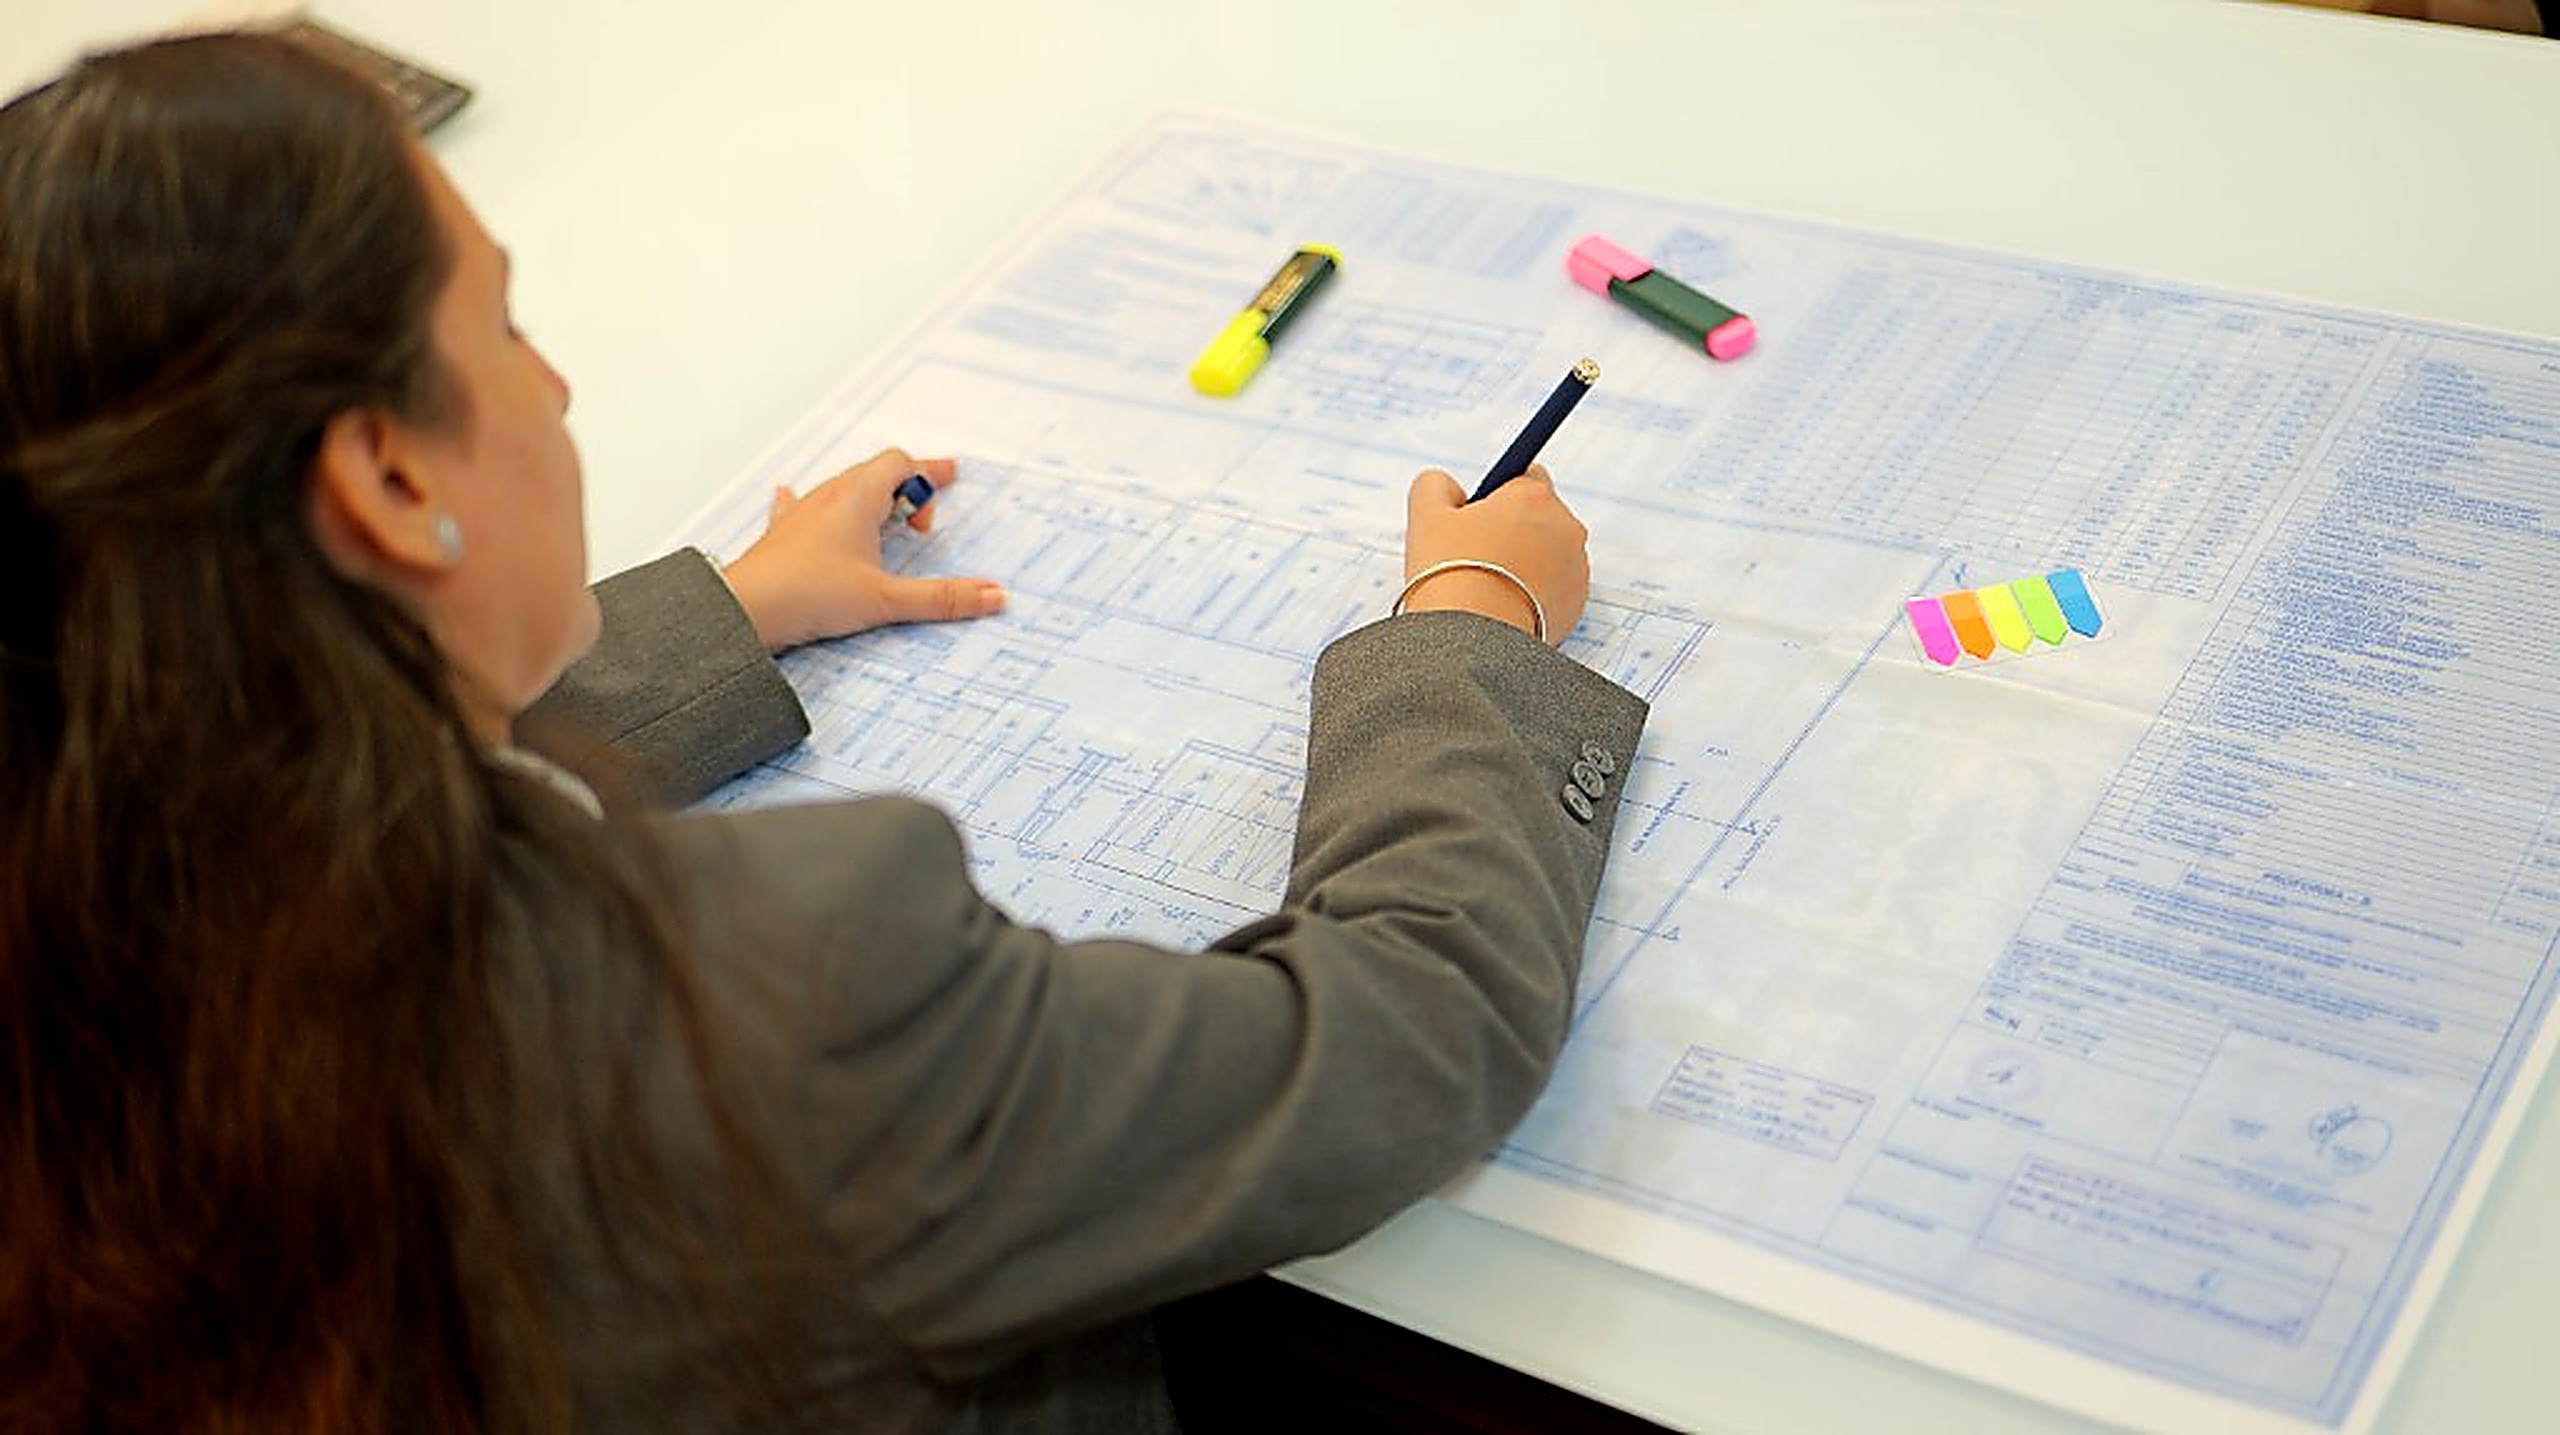
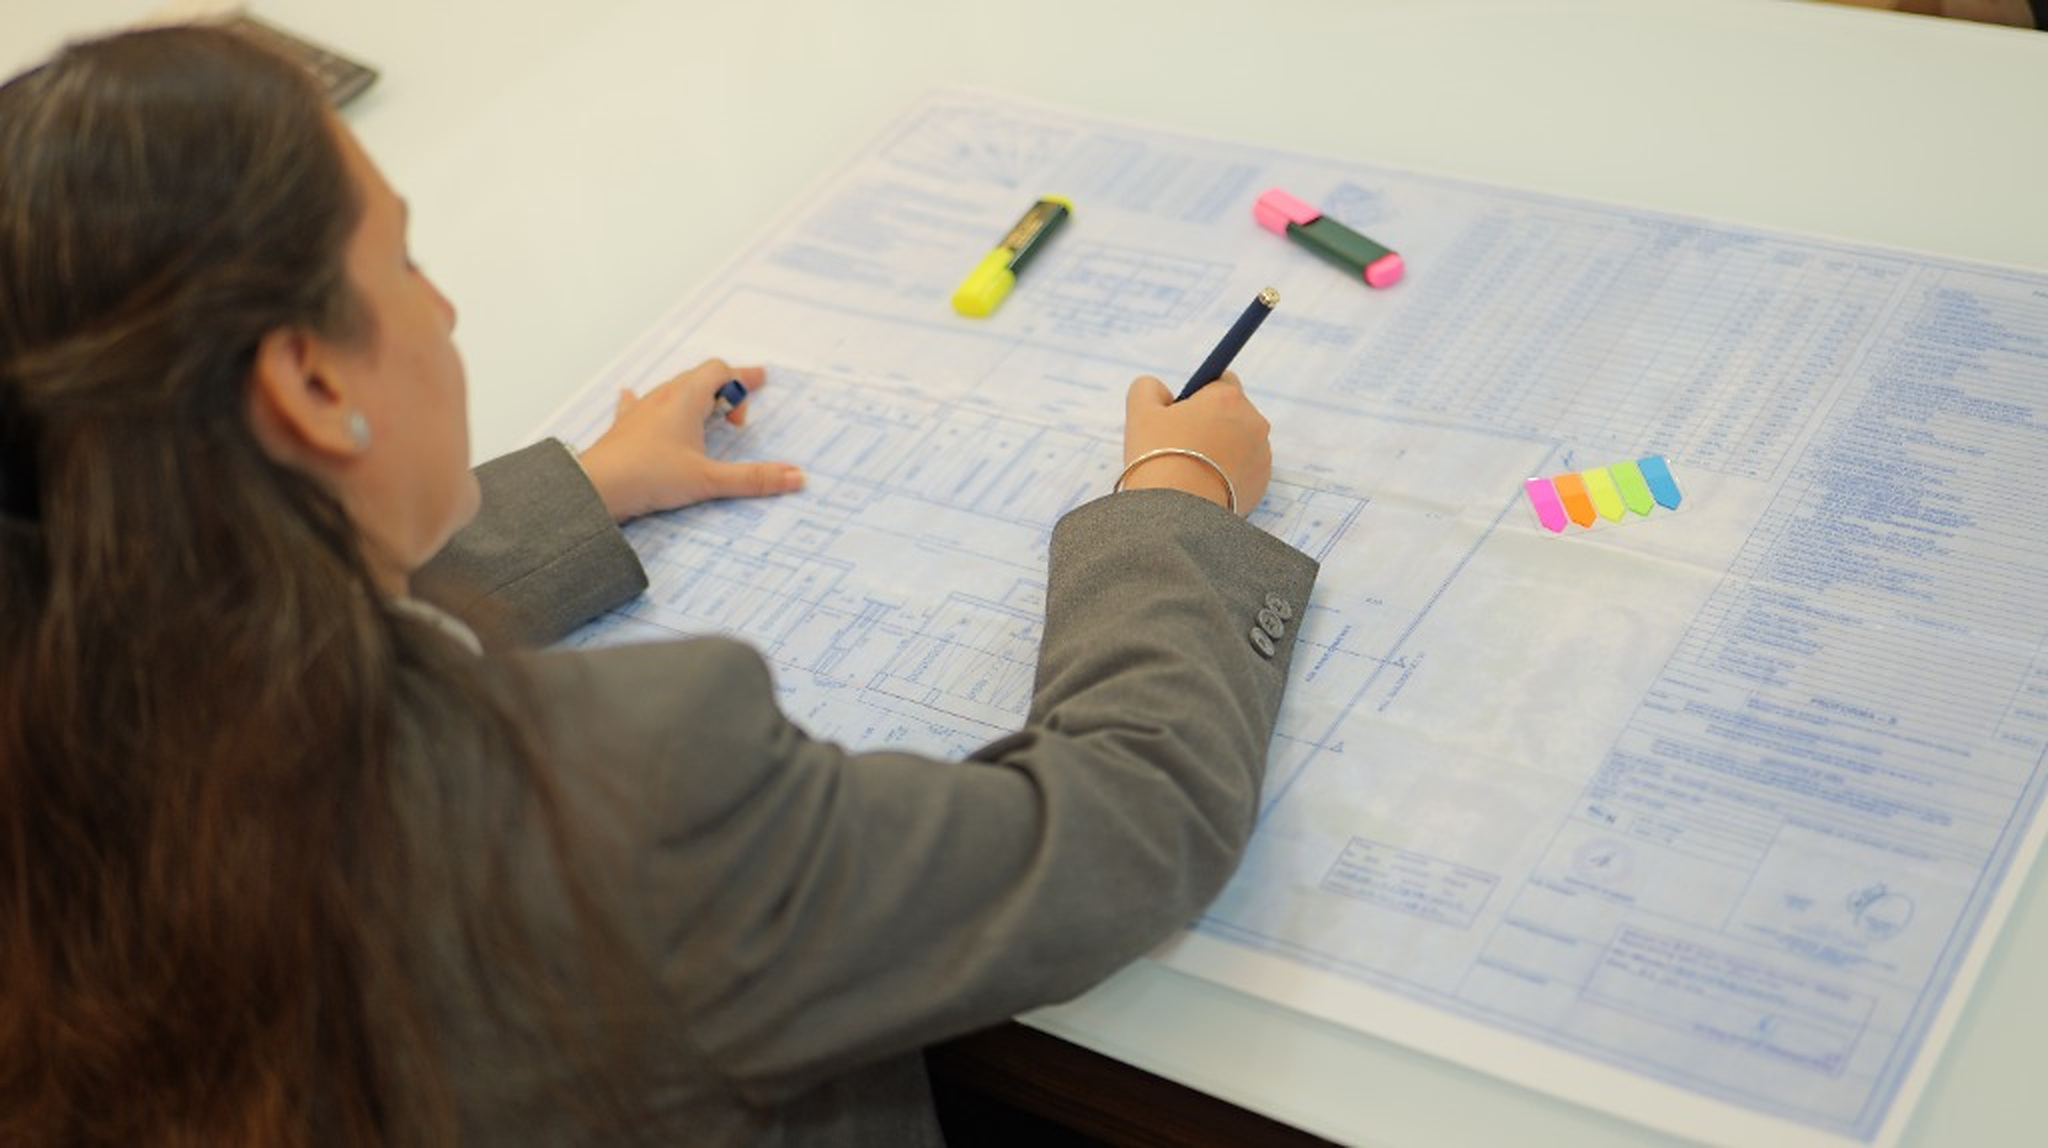
fix: resolve hero image pixelation with deblocked Lanczos upscale and equalize hero section height across all pages

diff --git a/assets/styles.css b/assets/styles.css
@@ -740,10 +740,18 @@ h1, h2, h3, h4, h5, h6 {
    INNER PAGE — PAGE HEADER BANNER (Crystal-Clear High Visibility Imagery)
    ========================================================================== */
 .page-hero {
-  min-height: 64vh; min-height: max(64vh, 520px); display: flex; align-items: center; justify-content: center; text-align: center;
-  background: linear-gradient(180deg, rgba(5, 20, 38, 0.10) 0%, rgba(5, 20, 38, 0.22) 50%, rgba(5, 20, 38, 0.40) 100%), var(--page-hero-img) no-repeat center center / cover;
-  padding: 175px 32px 105px;
+  min-height: 520px;
+  display: flex;
+  align-items: center;
+  justify-content: center;
+  text-align: center;
+  background: linear-gradient(180deg, rgba(5, 20, 38, 0.40) 0%, rgba(5, 20, 38, 0.28) 45%, rgba(5, 20, 38, 0.58) 100%), var(--page-hero-img) no-repeat center center / cover;
+  padding: 150px 32px 80px;
   position: relative;
+  box-sizing: border-box;
+}
+.page-hero > .wrap {
+  width: 100%;
 }
 .page-hero .eyebrow { font-family: var(--font-heading); color: var(--color-gold); text-transform: uppercase; letter-spacing: 3px; font-size: .88rem; font-weight: 700; margin-bottom: 16px; text-shadow: 0 2px 8px rgba(0,0,0,0.9); }
 .page-hero h1 { font-family: var(--font-heading); font-weight: 500; font-size: clamp(2.4rem,4.5vw + 1rem,4rem); color: #fff; line-height: 1.15; max-width: 960px; margin: 0 auto; text-shadow: 0 3px 18px rgba(0,0,0,0.85), 0 1px 4px rgba(0,0,0,0.95); }
@@ -1058,7 +1066,7 @@ h1, h2, h3, h4, h5, h6 {
 
 @media (max-width: 768px) {
   .content-section { padding: 56px 0; }
-  .page-hero { min-height: 48vh; min-height: max(48vh, 380px); padding: 135px 20px 65px; }
+  .page-hero { min-height: 420px; padding: 125px 20px 50px; }
 }
 
 
@@ -2494,10 +2502,18 @@ body.nav-locked {
     display: none !important;
   }
 
-  /* Page Hero Banners (Inner Pages) */
+  /* Page Hero Banners (Inner Pages) - Unified 420px height matching About page */
   .page-hero {
-    min-height: auto;
-    padding: 130px 20px 55px;
+    min-height: 420px;
+    display: flex;
+    flex-direction: column;
+    align-items: center;
+    justify-content: center;
+    padding: 125px 20px 50px;
+    box-sizing: border-box;
+  }
+  .page-hero > .wrap {
+    width: 100%;
   }
   .page-hero .eyebrow {
     font-size: 0.78rem;

diff --git a/architectural-design.html b/architectural-design.html
@@ -12,7 +12,7 @@
 <style>
   :root{ --page-hero-img: url('assets/architectural-design-hero.jpg'); }
   .page-hero {
-    background: linear-gradient(180deg, rgba(5, 20, 38, 0.10) 0%, rgba(5, 20, 38, 0.22) 50%, rgba(5, 20, 38, 0.40) 100%), url('assets/architectural-design-hero.jpg') no-repeat center center / cover !important;
+    background: linear-gradient(180deg, rgba(5, 20, 38, 0.40) 0%, rgba(5, 20, 38, 0.28) 45%, rgba(5, 20, 38, 0.58) 100%), url('assets/architectural-design-hero.jpg') no-repeat center center / cover !important;
   }
 </style>
 </head>

diff --git a/interior-design.html b/interior-design.html
@@ -12,7 +12,7 @@
 <style>
   :root{ --page-hero-img: url('assets/expertise-interior.png'); }
   .page-hero {
-    background: linear-gradient(180deg, rgba(5, 20, 38, 0.10) 0%, rgba(5, 20, 38, 0.22) 50%, rgba(5, 20, 38, 0.40) 100%), url('assets/expertise-interior.png') no-repeat center center / cover !important;
+    background: linear-gradient(180deg, rgba(5, 20, 38, 0.40) 0%, rgba(5, 20, 38, 0.28) 45%, rgba(5, 20, 38, 0.58) 100%), url('assets/expertise-interior.png') no-repeat center center / cover !important;
   }
 </style>
 </head>

diff --git a/liaison.html b/liaison.html
@@ -12,7 +12,7 @@
 <style>
   :root{ --page-hero-img: url('assets/expertise-liaison.jpg'); }
   .page-hero {
-    background: linear-gradient(180deg, rgba(5, 20, 38, 0.10) 0%, rgba(5, 20, 38, 0.22) 50%, rgba(5, 20, 38, 0.40) 100%), url('assets/expertise-liaison.jpg') no-repeat center center / cover !important;
+    background: linear-gradient(180deg, rgba(5, 20, 38, 0.40) 0%, rgba(5, 20, 38, 0.28) 45%, rgba(5, 20, 38, 0.58) 100%), url('assets/expertise-liaison.jpg') no-repeat center center / cover !important;
   }
 </style>
 </head>

diff --git a/portfolio.html b/portfolio.html
@@ -12,7 +12,7 @@
 <style>
   :root{ --page-hero-img: url('assets/projects-hero-bg.jpg'); }
   .page-hero {
-    background: linear-gradient(180deg, rgba(5, 20, 38, 0.45) 0%, rgba(5, 20, 38, 0.58) 50%, rgba(5, 20, 38, 0.75) 100%), url('assets/projects-hero-bg.jpg') no-repeat center center / cover !important;
+    background: linear-gradient(180deg, rgba(5, 20, 38, 0.40) 0%, rgba(5, 20, 38, 0.28) 45%, rgba(5, 20, 38, 0.58) 100%), url('assets/projects-hero-bg.jpg') no-repeat center center / cover !important;
   }
 </style>
 </head>

diff --git a/careers.html b/careers.html
@@ -12,7 +12,7 @@
 <style>
   :root{ --page-hero-img: url('assets/careers-hero-bg.jpg'); }
   .page-hero {
-    background: linear-gradient(180deg, rgba(5, 20, 38, 0.10) 0%, rgba(5, 20, 38, 0.22) 50%, rgba(5, 20, 38, 0.40) 100%), url('assets/careers-hero-bg.jpg') no-repeat center center / cover !important;
+    background: linear-gradient(180deg, rgba(5, 20, 38, 0.40) 0%, rgba(5, 20, 38, 0.28) 45%, rgba(5, 20, 38, 0.58) 100%), url('assets/careers-hero-bg.jpg') no-repeat center center / cover !important;
   }
 </style>
 </head>

diff --git a/pmc.html b/pmc.html
@@ -12,7 +12,7 @@
 <style>
   :root{ --page-hero-img: url('assets/expertise-pmc.jpeg'); }
   .page-hero {
-    background: linear-gradient(180deg, rgba(5, 20, 38, 0.10) 0%, rgba(5, 20, 38, 0.22) 50%, rgba(5, 20, 38, 0.40) 100%), url('assets/expertise-pmc.jpeg') no-repeat center center / cover !important;
+    background: linear-gradient(180deg, rgba(5, 20, 38, 0.40) 0%, rgba(5, 20, 38, 0.28) 45%, rgba(5, 20, 38, 0.58) 100%), url('assets/expertise-pmc.jpeg') no-repeat center center / cover !important;
   }
 </style>
 </head>

diff --git a/about.html b/about.html
@@ -12,7 +12,7 @@
 <style>
   :root{ --page-hero-img: url('assets/about-hero-bg.jpg'); }
   .page-hero {
-    background: linear-gradient(180deg, rgba(5, 20, 38, 0.10) 0%, rgba(5, 20, 38, 0.22) 50%, rgba(5, 20, 38, 0.40) 100%), url('assets/about-hero-bg.jpg') no-repeat center center / cover !important;
+    background: linear-gradient(180deg, rgba(5, 20, 38, 0.40) 0%, rgba(5, 20, 38, 0.28) 45%, rgba(5, 20, 38, 0.58) 100%), url('assets/about-hero-bg.jpg') no-repeat center center / cover !important;
   }
 </style>
 </head>

diff --git a/contact.html b/contact.html
@@ -12,7 +12,7 @@
 <style>
   :root{ --page-hero-img: url('assets/hero-bg.png'); }
   .page-hero {
-    background: linear-gradient(180deg, rgba(5, 20, 38, 0.10) 0%, rgba(5, 20, 38, 0.22) 50%, rgba(5, 20, 38, 0.40) 100%), url('assets/hero-bg.png') no-repeat center center / cover !important;
+    background: linear-gradient(180deg, rgba(5, 20, 38, 0.40) 0%, rgba(5, 20, 38, 0.28) 45%, rgba(5, 20, 38, 0.58) 100%), url('assets/hero-bg.png') no-repeat center center / cover !important;
   }
 </style>
 </head>
